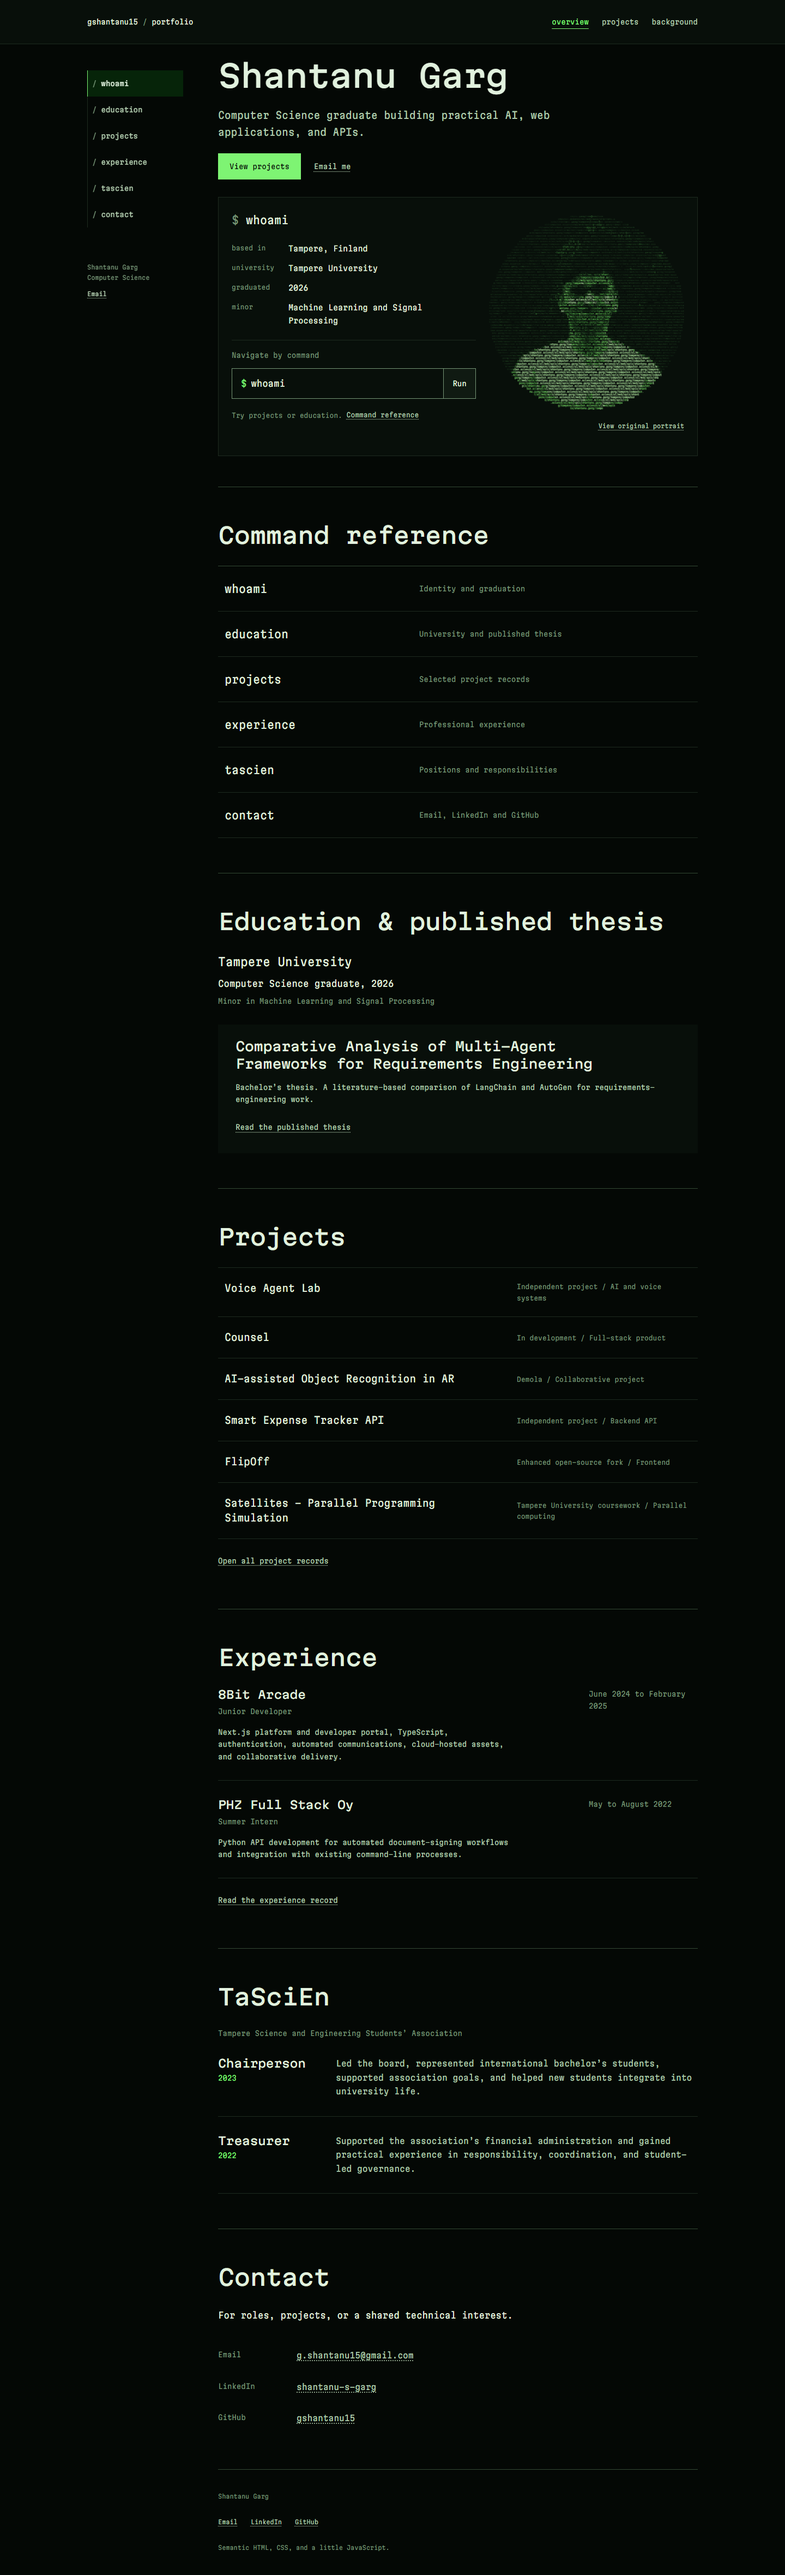
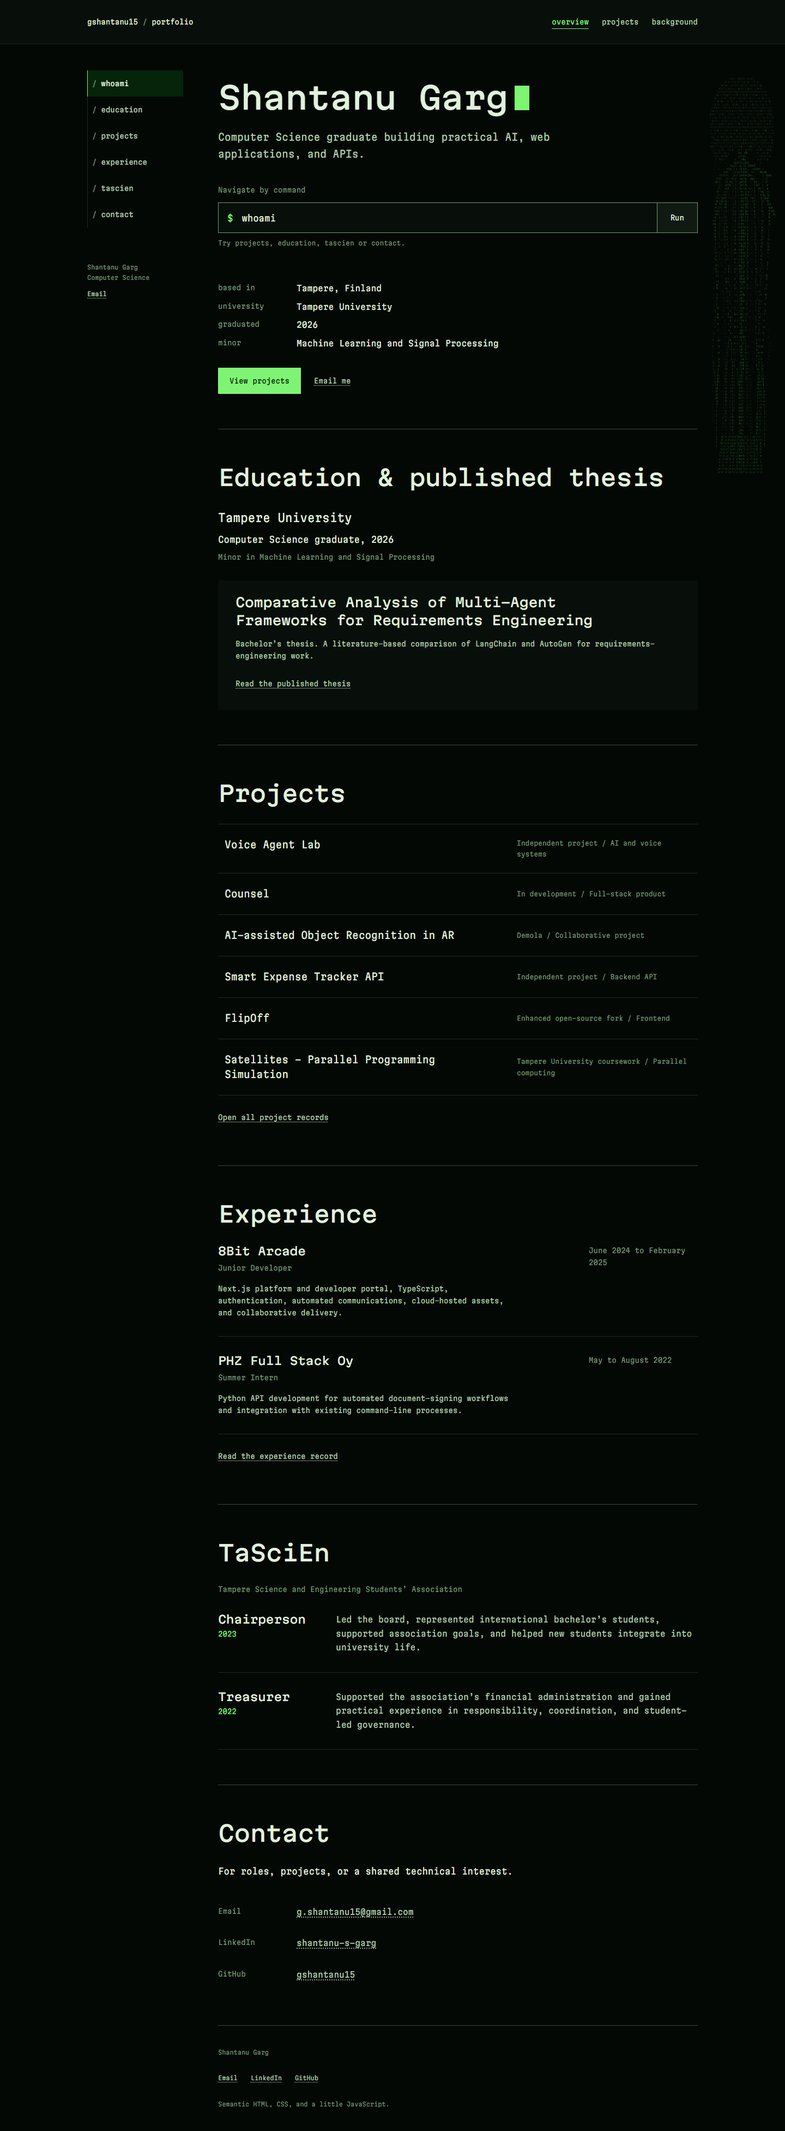
Verify banyan growth, responsive separation and finite cursor fallbacks

diff --git a/prototype/review.html b/prototype/review.html
@@ -94,13 +94,14 @@
 <footer class="terminal-footer">
 <p>Local prototype review. Root production pages are unchanged.</p>
 <a href="review/checks.json">Browser verification results</a>
-<nav aria-label="Identity revision review">
-<a href="review/identity-session-1440.png">Desktop glyph portrait and session</a>
-<a href="review/identity-session-390.png">Mobile glyph portrait and session</a>
-<a href="review/command-reference-1440.png">Command reference</a>
-<a href="review/identity-no-js-1440.png">Without JavaScript</a>
-<a href="review/identity-reduced-motion-1440.png">Reduced motion</a>
-<a href="review/identity-checks.json">Identity verification results</a>
+<nav aria-label="Banyan and cursor review">
+<a href="review/banyan-top-1600.png">Tree at page opening</a>
+<a href="review/banyan-middle-1600.png">Roots at reading midpoint</a>
+<a href="review/banyan-bottom-1600.png">Complete tree at page bottom</a>
+<a href="review/banyan-bottom-390.png">Mobile end mark</a>
+<a href="review/banyan-no-js-1600.png">Without JavaScript</a>
+<a href="review/banyan-reduced-motion-1600.png">Reduced motion</a>
+<a href="review/terminal-art-checks.json">Tree and cursor verification</a>
 </nav>
 </footer>
 </main>
